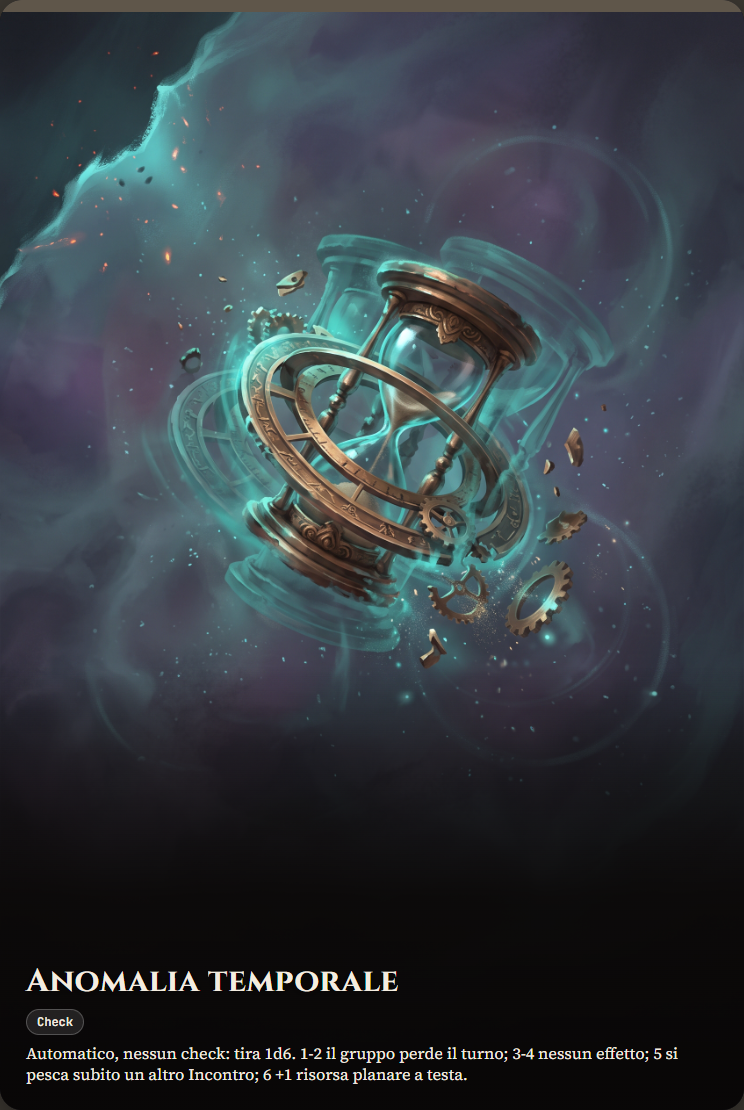
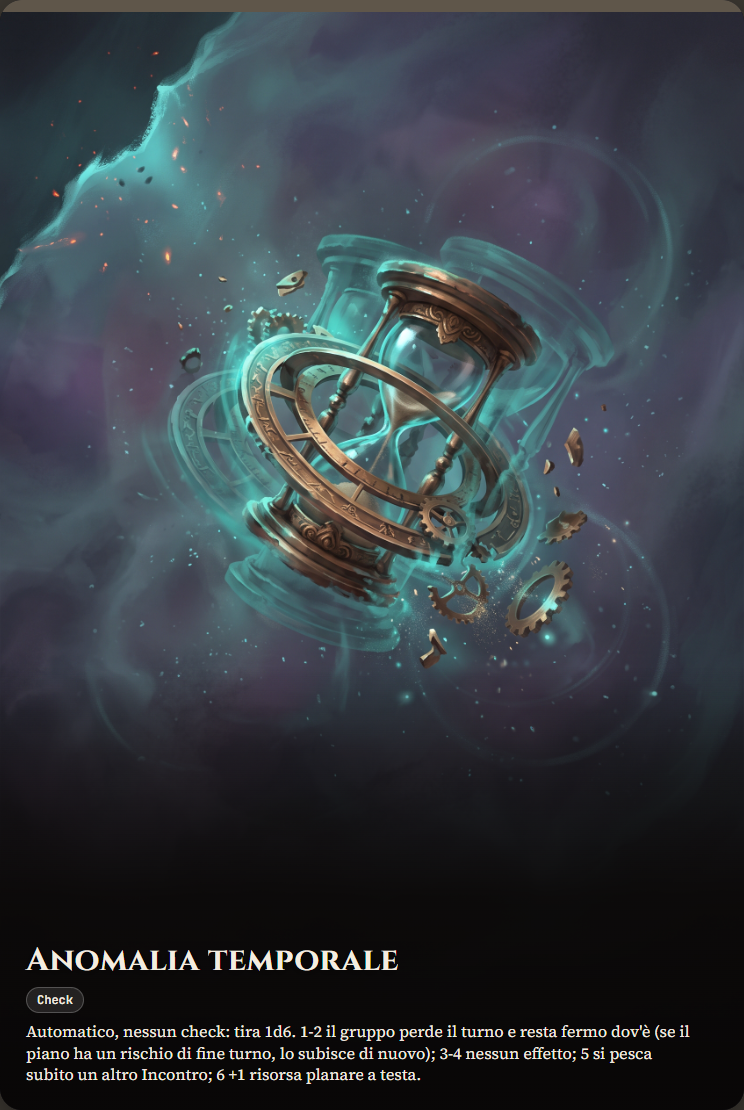
Dà una vera meccanica alla "perdita del turno", finora solo testo di log
L'utente ha chiesto di verificare se Anomalia Temporale facesse
davvero quello che scrive ("1-2 il gruppo perde il turno"). Trovato
che quel ramo si limitava a un messaggio nel diario, senza alcun
effetto di stato — il gruppo poteva comunque agire e saltare come se
nulla fosse. Controllando più a fondo, la stessa cosa valeva per
"perdita del turno" in altre 8 carte del gioco (Vento Ingannatore,
Sussurro Tentatore, Visione Ingannevole, Distorsione, Paradosso
Logico, Ombra in Agguato, Spettro del Tempo): un buco strutturale,
non specifico ad Anomalia Temporale.

Chiarito con l'utente cosa deve fare "perdere il turno":
- Di GRUPPO (Anomalia Temporale, unico caso): il gruppo resta fermo
  sul piano corrente. Se il piano ha un rischio di fine turno
  (Veleno/Tempesta/Piano Negativo dal 2° girone), lo subisce di
  nuovo — applyFineTurnoIfNeeded() viene richiamata un'altra volta,
  oltre a quella naturale di fine Incontro.
- INDIVIDUALE (le altre 8 carte, conseguenza di un check/Contesa
  fallita): il personaggio viene escluso dal prossimo Incontro del
  gruppo, stesso schema già usato per il Piano del Sogno — nuovo
  flag c.skipNextIncontro, consumato e filtrato dai drawTargets in
  applyPlaneIntrinsic() al prossimo salto.

Testo di Anomalia Temporale aggiornato e carta ricomposta (arte
originale in cards_raw invariata).

Verificato dal vivo: su un piano con rischio di fine turno (Veleno),
il ramo 1-2 di Anomalia Temporale infligge davvero il danno di fine
[…]

Changed region(s): [[0.0309, 0.8577, 0.9274, 0.9802]]

diff --git a/index.html b/index.html
@@ -458,7 +458,7 @@ const INCONTRI = {
     C("ge_bivio","Bivio","check","Una scelta alla cieca fra le prime tre carte del mazzo Piani: diventerà la prossima destinazione.",{bivioCard:true}),
     C("ge_segnale","Segnale di richiamo","ricompensa","Si intercetta un segnale per ritrovare un compagno separato: il prossimo salto riunirà automaticamente tutti i gruppi separati.",{reward:{type:"syncJump"}}),
     C("ge_cacciatore","Cacciatore di taglie planare","incontro","Un cacciatore di taglie planare attacca il gruppo. Scontro su una caratteristica a scelta (valore nemico 2).",{check:"choice",gravity:0}),
-    C("ge_anomalia","Anomalia temporale","check","Automatico, nessun check: tira 1d6. 1-2 il gruppo perde il turno; 3-4 nessun effetto; 5 si pesca subito un altro Incontro; 6 +1 risorsa planare a testa.",{anomaliaCard:true}),
+    C("ge_anomalia","Anomalia temporale","check","Automatico, nessun check: tira 1d6. 1-2 il gruppo perde il turno e resta fermo dov'è (se il piano ha un rischio di fine turno, lo subisce di nuovo); 3-4 nessun effetto; 5 si pesca subito un altro Incontro; 6 +1 risorsa planare a testa.",{anomaliaCard:true}),
     C("ge_randagio","Randagio planare","incontro","Una creatura minore e spaventata. Scontro di Forza (valore nemico 1, fisso indipendentemente dal girone).",{check:"for",gravity:-1,forceBase2:true}),
     C("ge_superstite","Superstite planare","ricompensa","Un superstite offre la stessa scelta a tre del Viandante smarrito: Resistenza di gruppo, sbircia 2 carte Piani, o rimescola il mazzo.",{reward:{type:"choice3"}}),
     C("ge_legame","Legame a distanza","ricompensa","Un legame a distanza si stabilisce: il prossimo salto riunirà automaticamente tutti i gruppi separati.",{reward:{type:"syncJump"}}),
@@ -706,6 +706,7 @@ function makeChar(name, clsKey, bonus){
     sigilloActive:false, // Sigillo: non può agire ostilmente per Corruzione, finché resta nel piano
     dmgBonusPlane:0, // Benedizione: +2 danno per tutta la permanenza nel piano
     ordineResetReady:false, // Ordine: può riportare una propria caratteristica al valore di partenza di 1° livello, finché resta nel piano
+    skipNextIncontro:false, // perdita individuale del turno: escluso dal prossimo Incontro del gruppo, poi si consuma
     wildcardResistance:false, // Cimelio del Viandante/Vaticinio: para il primo danno d'ingresso del prossimo piano, qualunque famiglia
     contesaBonusPlane:0, // Vaticinio: +1 in qualsiasi Contesa per tutta la permanenza nel piano indovinato
     tempBonus:{}, // {stat:delta} da ricompensa Etereo non-boss: dura fino al prossimo Recupero
@@ -1582,9 +1583,16 @@ function applyPlaneIntrinsic(plane){
   // partecipa all'Incontro di questo turno — né scontro né altro, viene tolto dai target
   // prima ancora di pescare la carta (non solo escluso dal combattimento come la Furtività).
   let drawTargets = null;
-  if(plane.id==='sogno'){
-    const dreaming = state.currentDraw.dreamers || [];
-    drawTargets = acts.filter(c=>!dreaming.includes(c.id));
+  const dreaming = plane.id==='sogno' ? (state.currentDraw.dreamers || []) : [];
+  const turnSkippers = acts.filter(c=>c.skipNextIncontro);
+  if(dreaming.length || turnSkippers.length){
+    drawTargets = acts.filter(c=>!dreaming.includes(c.id) && !c.skipNextIncontro);
+  }
+  if(turnSkippers.length){
+    const names = turnSkippers.map(c=>c.name);
+    const plural = names.length>1;
+    logMsg(`⏳ ${names.join(', ')} ${plural?'restano':'resta'} esclus${plural?'i':'o'} dall'Incontro di questo turno: ${plural?'avevano':'aveva'} perso il turno precedente.`,'warn');
+    turnSkippers.forEach(c=>{ c.skipNextIncontro=false; });
   }
   // draw incontro after intrinsic (unless plane fully occupies the turn, none do per rules: "si pesca comunque, come sempre")
   const forcedFamily = (plane.family==='demoniaco'||plane.family==='nonmorti') ? plane.deck : null;
@@ -2008,8 +2016,11 @@ function renderIncontroAction(){
       state.currentDraw.autoApplied = true;
       const r = d6();
       if(r<=2){
-        logMsg(`⏳ Anomalia temporale (${r}): il tempo rallenta, il gruppo perde questo turno.`,'warn');
-        acts.forEach(c=>logMsg(`⏳ ${c.name} perde il turno.`));
+        logMsg(`⏳ Anomalia temporale (${r}): il tempo rallenta, il gruppo perde questo turno e resta fermo dov'è.`,'warn');
+        if(hasFineTurnoRisk(plane)){
+          logMsg(`⏳ Restando fermo, il gruppo subisce di nuovo il rischio di fine turno di ${plane.name}.`,'warn');
+          applyFineTurnoIfNeeded();
+        }
       } else if(r<=4){
         logMsg(`⏳ Anomalia temporale (${r}): un breve sussulto, poi tutto torna normale. Nessun effetto.`);
       } else if(r===5){
@@ -2155,7 +2166,7 @@ function applyConsequence(cons, targets, plane){
         applyTempDebuff(c,stat); break;
       }
       case 'damage': applyDamage(c,'pv',cons.n,{family:plane.family, planeId:plane.id}); break;
-      case 'loseTurn': logMsg(`⏳ ${c.name} perde il turno.`); break;
+      case 'loseTurn': c.skipNextIncontro=true; logMsg(`⏳ ${c.name} perde il turno: non parteciperà all'Incontro del prossimo piano.`,'warn'); break;
       case 'loseItem': { const idx=pickLosableItemIndex(c); if(idx>=0){ const lost=c.inventory.splice(idx,1)[0]; logMsg(`🎒 ${c.name} perde ${OGGETTI_BY_ID[lost]?.name}.`); } else if(c.protectedItemId && c.inventory.length){ logMsg(`⏳ ${c.name}: il tempo fermo protegge l'unico oggetto rimasto.`); } break; }
       case 'animaLoss': applyAnimaLoss(c,cons.n||1); break;
       case 'scatterSelf': logMsg(`🌀 ${c.name} si allontana dal gruppo, si riunirà al turno successivo.`,'warn'); break;
@@ -2396,7 +2407,7 @@ function fightRound(plane, card, acts, cb){
   }
   if(card.onLoseExtra && passThrough>0){
     acts.forEach(c=>{
-      if(card.onLoseExtra==='loseTurn') logMsg(`⏳ ${c.name} perde anche il turno.`);
+      if(card.onLoseExtra==='loseTurn'){ c.skipNextIncontro=true; logMsg(`⏳ ${c.name} perde anche il turno: non parteciperà all'Incontro del prossimo piano.`,'warn'); }
       if(card.onLoseExtra==='tempDebuffSan') applyTempDebuff(c,'san');
       if(card.onLoseExtra==='tempDebuffRandom') applyTempDebuff(c,STATS[Math.floor(Math.random()*6)]);
     });
